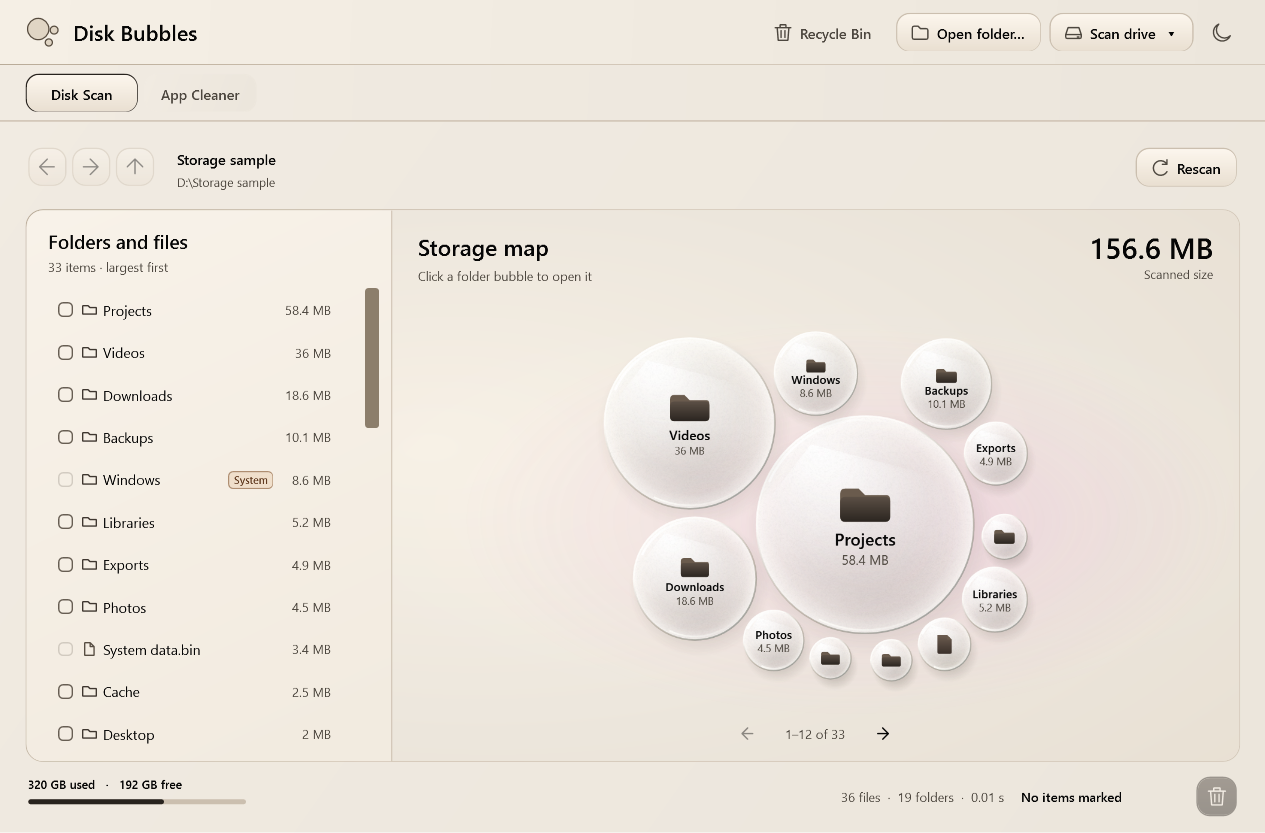
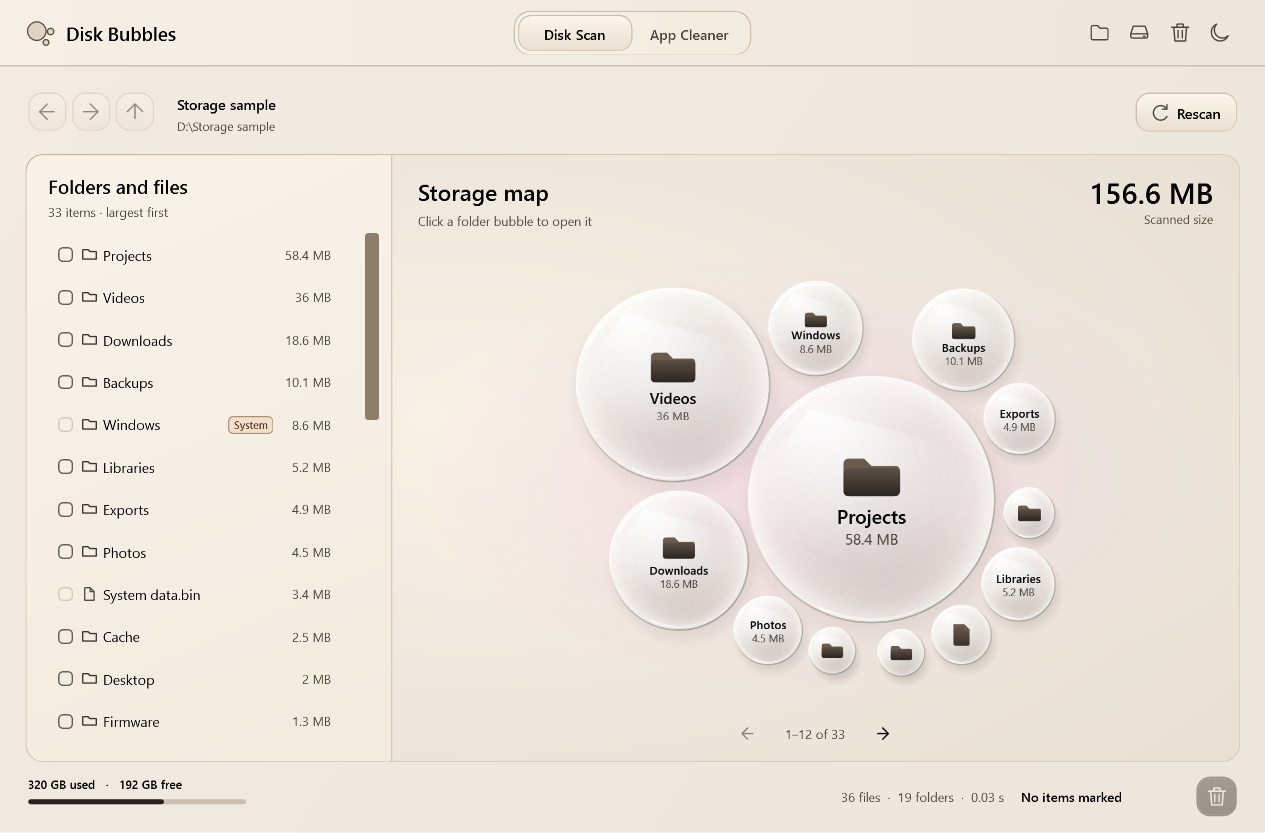
fix: center the start screen and unify the toolbar

diff --git a/src/DiskBubbles/Dark.xaml b/src/DiskBubbles/Dark.xaml
@@ -39,11 +39,6 @@
     <GradientStop Offset="0.57" Color="#040A18" />
     <GradientStop Offset="1" Color="#000412" />
   </RadialGradientBrush>
-  <RadialGradientBrush x:Key="Hero" Center="0.71,0.49" GradientOrigin="0.71,0.43" RadiusX="0.77" RadiusY="1.01">
-    <GradientStop Offset="0" Color="#142436" />
-    <GradientStop Offset="0.55" Color="#080F1E" />
-    <GradientStop Offset="1" Color="#000412" />
-  </RadialGradientBrush>
 
   <SolidColorBrush x:Key="TooltipFill" Color="#172231" />
   <SolidColorBrush x:Key="TooltipEdge" Color="#4A5C70" />

diff --git a/src/DiskBubbles/Light.xaml b/src/DiskBubbles/Light.xaml
@@ -39,11 +39,6 @@
     <GradientStop Offset="0.57" Color="#ECE6DC" />
     <GradientStop Offset="1" Color="#E8DFD2" />
   </RadialGradientBrush>
-  <RadialGradientBrush x:Key="Hero" Center="0.71,0.49" GradientOrigin="0.71,0.43" RadiusX="0.77" RadiusY="1.01">
-    <GradientStop Offset="0" Color="#F8F2E8" />
-    <GradientStop Offset="0.55" Color="#EFE8DD" />
-    <GradientStop Offset="1" Color="#E5DBCD" />
-  </RadialGradientBrush>
 
   <SolidColorBrush x:Key="TooltipFill" Color="#FCF7EE" />
   <SolidColorBrush x:Key="TooltipEdge" Color="#A69A89" />

diff --git a/src/DiskBubbles/MainWindow.Layout.cs b/src/DiskBubbles/MainWindow.Layout.cs
@@ -2,6 +2,7 @@ using System;
 using System.Windows;
 using System.Windows.Automation;
 using System.Windows.Controls;
+using System.Windows.Controls.Primitives;
 using System.Windows.Data;
 using System.Windows.Media;
 using System.Windows.Shapes;
@@ -13,44 +14,57 @@ namespace DiskBubbles
     {
         private Border BuildHeader()
         {
-            var header = new DockPanel { LastChildFill = true };
-            var actions = new StackPanel { Orientation = Orientation.Horizontal, VerticalAlignment = VerticalAlignment.Center };
-            _recycleBin.Style = (Style)FindResource("QuietButton");
-            _recycleBin.Content = UiVisuals.WithIcon("Recycle Bin", UiVisuals.Bin, "Muted");
-            AutomationProperties.SetName(_recycleBin, "Open Recycle Bin");
-            _recycleBin.Margin = new Thickness(0, 0, 8, 0);
-            actions.Children.Add(_recycleBin);
-            _folder.Content = UiVisuals.WithIcon("Open folder…", UiVisuals.Folder, "Muted");
-            AutomationProperties.SetName(_folder, "Open folder to scan");
-            _folder.Margin = new Thickness(0, 0, 8, 0);
-            _drive.Content = UiVisuals.WithIcon("Scan drive  ▾", UiVisuals.Drive, "Muted");
-            AutomationProperties.SetName(_drive, "Choose a drive to scan");
-            actions.Children.Add(_folder);
-            actions.Children.Add(_drive);
-            _appearance.Margin = new Thickness(8, 0, 0, 0);
-            _appearance.Style = (Style)FindResource("QuietButton");
+            var header = new Grid();
+            header.ColumnDefinitions.Add(new ColumnDefinition());
+            header.ColumnDefinitions.Add(new ColumnDefinition { Width = GridLength.Auto });
+            header.ColumnDefinitions.Add(new ColumnDefinition());
+
+            var brand = new StackPanel { Orientation = Orientation.Horizontal, VerticalAlignment = VerticalAlignment.Center };
+            brand.Children.Add(Mark(29));
+            var title = Label("Disk Bubbles", 18, "Ink", FontWeights.SemiBold);
+            title.Margin = new Thickness(9, 0, 0, 0);
+            title.VerticalAlignment = VerticalAlignment.Center;
+            brand.Children.Add(title);
+            header.Children.Add(brand);
+
+            var modes = BuildModeControl();
+            Grid.SetColumn(modes, 1);
+            header.Children.Add(modes);
+
+            var actions = new StackPanel { Orientation = Orientation.Horizontal, HorizontalAlignment = HorizontalAlignment.Right,
+                VerticalAlignment = VerticalAlignment.Center };
+            var quiet = (Style)FindResource("QuietButton");
+            foreach (var button in new[] { _folder, _drive, _recycleBin, _appearance })
+            {
+                button.Style = quiet;
+                button.Width = 36;
+                button.Padding = new Thickness(7);
+                button.Margin = new Thickness(1, 0, 1, 0);
+                actions.Children.Add(button);
+            }
+            SetToolbarIcon(_folder, UiVisuals.Folder, "Choose a folder to scan");
+            SetToolbarIcon(_drive, UiVisuals.Drive, "Choose a drive to scan");
+            SetToolbarIcon(_recycleBin, UiVisuals.Bin, "Open Recycle Bin");
             UpdateAppearanceButton();
             _appearance.Click += (sender, args) =>
             {
                 ChangeAppearance(!Appearance.IsLight);
                 Appearance.SavePreference();
             };
-            actions.Children.Add(_appearance);
-            DockPanel.SetDock(actions, Dock.Right);
+            Grid.SetColumn(actions, 2);
             header.Children.Add(actions);
-
-            var brand = new StackPanel { Orientation = Orientation.Horizontal, VerticalAlignment = VerticalAlignment.Center };
-            brand.Children.Add(Mark(33));
-            var title = Label("Disk Bubbles", 20, "Ink", FontWeights.SemiBold);
-            title.Margin = new Thickness(12, 0, 0, 0);
-            title.VerticalAlignment = VerticalAlignment.Center;
-            brand.Children.Add(title);
-            header.Children.Add(brand);
             return UiVisuals.Surface(new Border
             {
                 BorderThickness = new Thickness(0, 0, 0, 1),
-                Padding = new Thickness(24, 12, 24, 12), Child = header,
-            }, "Header", "GlassEdge");
+                Padding = new Thickness(24, 10, 24, 10), Child = header,
+            }, "Header", "Line");
+        }
+
+        private static void SetToolbarIcon(Button button, string icon, string label)
+        {
+            button.Content = UiVisuals.Icon(icon, "Muted", 17);
+            button.ToolTip = label;
+            AutomationProperties.SetName(button, label);
         }
 
         private void ChangeAppearance(bool light)
@@ -63,14 +77,15 @@ namespace DiskBubbles
                 illustration.InvalidateVisual();
         }
 
-        private Border BuildModeBar()
+        private Border BuildModeControl()
         {
-            var modes = new StackPanel { Orientation = Orientation.Horizontal };
+            var modes = new UniformGrid { Rows = 1, Columns = 2 };
             foreach (Button button in new[] { _diskMode, _appsMode })
             {
                 button.Style = (Style)FindResource("QuietButton");
-                button.MinWidth = 106;
-                button.Margin = new Thickness(0, 0, 6, 0);
+                button.Width = 108;
+                button.MinHeight = 34;
+                button.Padding = new Thickness(10, 5, 10, 5);
                 modes.Children.Add(button);
             }
             _diskMode.Click += (sender, args) => ShowPage(_scan != null ? _scanning : _result == null ? _landing : _browser);
@@ -79,14 +94,22 @@ namespace DiskBubbles
                 ShowPage(_appCleaner);
                 await _appCleaner.OpenAsync();
             };
-            return UiVisuals.Surface(new Border { Child = modes, Padding = new Thickness(24, 8, 24, 8),
-                BorderThickness = new Thickness(0, 0, 0, 1) }, "Workspace", "Line");
+            return UiVisuals.Surface(new Border { Child = modes, Padding = new Thickness(3), CornerRadius = new CornerRadius(15),
+                BorderThickness = new Thickness(1), VerticalAlignment = VerticalAlignment.Center }, "Panel", "Line");
         }
 
         private static void SetActiveMode(Button button, bool selected)
         {
-            button.SetResourceReference(Control.BackgroundProperty, selected ? "Raised" : "Workspace");
-            button.SetResourceReference(Control.BorderBrushProperty, selected ? "Accent" : "Workspace");
+            if (selected)
+            {
+                button.SetResourceReference(Control.BackgroundProperty, "Raised");
+                button.SetResourceReference(Control.BorderBrushProperty, "Line");
+            }
+            else
+            {
+                button.ClearValue(Control.BackgroundProperty);
+                button.ClearValue(Control.BorderBrushProperty);
+            }
             button.SetResourceReference(Control.ForegroundProperty, selected ? "Ink" : "Muted");
             AutomationProperties.SetItemStatus(button, selected ? "Current mode" : "");
         }
@@ -293,34 +316,24 @@ namespace DiskBubbles
         private void BuildLanding()
         {
             var body = new StackPanel();
-            var heading = Label("See where your\nspace went.", 47, "Ink", FontWeights.SemiBold);
-            heading.TextTrimming = TextTrimming.None;
-            heading.TextWrapping = TextWrapping.Wrap;
-            heading.LineHeight = 53;
-            heading.LineStackingStrategy = LineStackingStrategy.BlockLineHeight;
-            SizeChanged += (sender, args) =>
-            {
-                bool compact = ActualWidth < 900;
-                heading.FontSize = compact ? 36 : 47;
-                heading.LineHeight = compact ? 43 : 53;
-            };
+            var heading = Label("See where your space went.", 38, "Ink", FontWeights.SemiBold);
+            heading.TextAlignment = TextAlignment.Center;
             body.Children.Add(heading);
-            var hint = Label("Scan a drive or folder. Open the largest items directly from the map.", 16, "Muted");
-            hint.Margin = new Thickness(0, 20, 0, 0);
+            var hint = Label("Scan a drive or folder to see what’s taking up space.", 15, "Muted");
+            hint.Margin = new Thickness(0, 9, 0, 0);
             hint.TextWrapping = TextWrapping.Wrap;
-            hint.TextTrimming = TextTrimming.None;
-            hint.MaxWidth = 322;
-            hint.HorizontalAlignment = HorizontalAlignment.Left;
+            hint.TextAlignment = TextAlignment.Center;
             body.Children.Add(hint);
             string systemDrive = IOPath.GetPathRoot(Environment.SystemDirectory);
             var start = new Button { Content = UiVisuals.WithIcon("Scan " + systemDrive.TrimEnd('\\'), UiVisuals.Drive, "AccentInk"),
-                MinHeight = 44, Margin = new Thickness(0, 0, 8, 0) };
+                MinHeight = 42, Margin = new Thickness(0, 0, 4, 0) };
             AutomationProperties.SetName(start, "Scan " + systemDrive.TrimEnd('\\'));
             UiVisuals.Emphasize(start);
             start.Click += async (sender, args) => await ScanAsync(systemDrive);
-            var choose = new Button { Content = "Choose folder…", MinHeight = 44 };
+            var choose = new Button { Content = "Choose folder…", MinHeight = 42, Margin = new Thickness(4, 0, 0, 0) };
             choose.Click += async (sender, args) => await ChooseFolderAsync();
-            var actions = new WrapPanel { Margin = new Thickness(0, 26, 0, 0) };
+            var actions = new UniformGrid { Rows = 1, Columns = 2, Width = 296,
+                HorizontalAlignment = HorizontalAlignment.Center, Margin = new Thickness(0, 22, 0, 0) };
             actions.Children.Add(start);
             actions.Children.Add(choose);
             body.Children.Add(actions);
@@ -330,22 +343,25 @@ namespace DiskBubbles
         private void BuildScanning()
         {
             var body = new StackPanel();
-            var heading = Label("Scanning storage", 37, "Ink", FontWeights.SemiBold);
+            var heading = Label("Scanning storage", 34, "Ink", FontWeights.SemiBold);
+            heading.TextAlignment = TextAlignment.Center;
             body.Children.Add(heading);
             FormatLabel(_scanCounts, 13, "Muted");
+            _scanCounts.TextAlignment = TextAlignment.Center;
             _scanCounts.Margin = new Thickness(0, 10, 0, 10);
             FormatLabel(_scanPath, 13, "Muted");
+            _scanPath.TextAlignment = TextAlignment.Center;
             _scanPath.Margin = new Thickness(0, 0, 0, 18);
             _scanPath.SetBinding(ToolTipProperty, new Binding("Text") { Source = _scanPath });
             body.Children.Add(_scanCounts);
             body.Children.Add(_scanPath);
             _spinner.SetResourceReference(Control.ForegroundProperty, "Accent");
             _spinner.SetResourceReference(Control.BackgroundProperty, "Line");
-            _spinner.HorizontalAlignment = HorizontalAlignment.Left;
+            _spinner.HorizontalAlignment = HorizontalAlignment.Center;
             _spinner.Template = (ControlTemplate)FindResource("ScanMeter");
             AutomationProperties.SetName(_spinner, "Scan in progress");
             body.Children.Add(_spinner);
-            _cancel.HorizontalAlignment = HorizontalAlignment.Left;
+            _cancel.HorizontalAlignment = HorizontalAlignment.Center;
             _cancel.Margin = new Thickness(0, 24, 0, 0);
             _cancel.Click += (sender, args) =>
             {
@@ -359,17 +375,14 @@ namespace DiskBubbles
 
         private void BuildIntro(Grid page, StackPanel body)
         {
-            var layout = new Grid { ClipToBounds = true };
-            layout.ColumnDefinitions.Add(new ColumnDefinition { Width = new GridLength(1, GridUnitType.Star), MinWidth = 338 });
-            layout.ColumnDefinitions.Add(new ColumnDefinition { Width = new GridLength(1.12, GridUnitType.Star) });
-            body.VerticalAlignment = VerticalAlignment.Center;
-            body.Margin = new Thickness(42, 20, 12, 20);
-            layout.Children.Add(body);
-            var art = new StorageIllustration { IsHitTestVisible = false, Margin = new Thickness(2, 18, 23, 18) };
+            var intro = new StackPanel { HorizontalAlignment = HorizontalAlignment.Center, VerticalAlignment = VerticalAlignment.Center,
+                MaxWidth = 560, Margin = new Thickness(16, 12, 16, 20) };
+            var art = new StorageIllustration { IsHitTestVisible = false, Width = 280, Height = 174,
+                HorizontalAlignment = HorizontalAlignment.Center, Margin = new Thickness(0, 0, 0, 14) };
             _illustrations.Add(art);
-            Grid.SetColumn(art, 1);
-            layout.Children.Add(art);
-            page.Children.Add(Card(layout, "Hero"));
+            intro.Children.Add(art);
+            intro.Children.Add(body);
+            page.Children.Add(intro);
         }
 
         private TextBlock Label(string text, double size, string color, FontWeight? weight = null)

diff --git a/src/DiskBubbles/UiVisuals.cs b/src/DiskBubbles/UiVisuals.cs
@@ -30,14 +30,14 @@ namespace DiskBubbles
                 return;
 
             Brush blush = Appearance.IsLight ? (_lightBlush ??= BlushBrush(38)) : (_darkBlush ??= BlushBrush(49));
-            drawing.DrawEllipse(blush, null, new Point(bounds.X + bounds.Width * 0.54, bounds.Y + bounds.Height * 0.53),
+            drawing.DrawEllipse(blush, null, new Point(bounds.X + bounds.Width * 0.5, bounds.Y + bounds.Height * 0.5),
                 bounds.Width * 0.46, bounds.Height * 0.47);
         }
 
         private static Brush BlushBrush(byte strength)
         {
             Color tint = ((SolidColorBrush)Application.Current.FindResource("Atmosphere")).Color;
-            var brush = new RadialGradientBrush { RadiusX = 0.5, RadiusY = 0.5, GradientOrigin = new Point(0.60, 0.51) };
+            var brush = new RadialGradientBrush { RadiusX = 0.5, RadiusY = 0.5 };
             brush.GradientStops.Add(new GradientStop(Color.FromArgb(strength, tint.R, tint.G, tint.B), 0));
             brush.GradientStops.Add(new GradientStop(Color.FromArgb((byte)(strength / 2), tint.R, tint.G, tint.B), 0.46));
             brush.GradientStops.Add(new GradientStop(Color.FromArgb(0, tint.R, tint.G, tint.B), 1));
@@ -319,25 +319,26 @@ namespace DiskBubbles
 
         protected override void OnRender(DrawingContext drawing)
         {
-            double scale = Math.Min(ActualWidth / 440, ActualHeight / 376);
+            const double width = 280;
+            const double height = 174;
+            var center = new Point(width / 2, height / 2);
+            double scale = Math.Min(ActualWidth / width, ActualHeight / height);
             if (scale <= 0)
                 return;
 
-            drawing.PushTransform(new TranslateTransform((ActualWidth - 440 * scale) / 2, (ActualHeight - 376 * scale) / 2));
+            drawing.PushTransform(new TranslateTransform((ActualWidth - width * scale) / 2, (ActualHeight - height * scale) / 2));
             drawing.PushTransform(new ScaleTransform(scale, scale));
 
-            UiVisuals.DrawBlush(drawing, new Rect(6, 9, 426, 354));
+            UiVisuals.DrawBlush(drawing, new Rect(0, 0, width, height));
             Color lens = Appearance.IsLight ? Color.FromRgb(189, 174, 174) : Color.FromRgb(159, 186, 201);
             Color smallLens = Appearance.IsLight ? Color.FromRgb(184, 176, 165) : Color.FromRgb(162, 175, 191);
-            GlassOrb.Draw(drawing, new Point(221, 189), 91, lens);
-            GlassOrb.Draw(drawing, new Point(104, 111), 42, smallLens);
-            GlassOrb.Draw(drawing, new Point(349, 148), 36, lens);
-            GlassOrb.Draw(drawing, new Point(316, 284), 34, smallLens);
-            GlassOrb.Draw(drawing, new Point(113, 260), 31, lens);
-            GlassOrb.Draw(drawing, new Point(205, 79), 16, smallLens);
-            GlassOrb.Draw(drawing, new Point(219, 307), 18, smallLens);
-            drawing.PushTransform(new TranslateTransform(194, 162));
-            drawing.PushTransform(new ScaleTransform(2.25, 2.25));
+            GlassOrb.Draw(drawing, center, 52, lens);
+            GlassOrb.Draw(drawing, center + new Vector(-73, -23), 19, smallLens);
+            GlassOrb.Draw(drawing, center + new Vector(73, -23), 19, smallLens);
+            GlassOrb.Draw(drawing, center + new Vector(-67, 26), 14, smallLens);
+            GlassOrb.Draw(drawing, center + new Vector(67, 26), 14, smallLens);
+            drawing.PushTransform(new TranslateTransform(center.X - 20, center.Y - 19.2));
+            drawing.PushTransform(new ScaleTransform(1.6, 1.6));
             var ink = (Brush)FindResource("Ink");
             drawing.DrawGeometry(null, new Pen(ink, 0.75) { LineJoin = PenLineJoin.Round }, FolderGlyph);
             drawing.Pop();

diff --git a/src/DiskBubbles/AppCleanerPage.cs b/src/DiskBubbles/AppCleanerPage.cs
@@ -94,11 +94,9 @@ namespace DiskBubbles
             actions.Children.Add(_refresh);
             DockPanel.SetDock(actions, Dock.Right);
             top.Children.Add(actions);
-            var heading = new StackPanel();
-            heading.Children.Add(Label("App Cleaner", 25, "Ink", true));
-            _status.Margin = new Thickness(0, 3, 0, 0);
-            heading.Children.Add(_status);
-            top.Children.Add(heading);
+            _status.VerticalAlignment = VerticalAlignment.Center;
+            _status.Margin = new Thickness(0, 0, 12, 0);
+            top.Children.Add(_status);
             Children.Add(top);
 
             var columns = new Grid();
@@ -144,11 +142,12 @@ namespace DiskBubbles
             _openFolder.Margin = new Thickness(0, 14, 0, 0);
             _openFolder.HorizontalAlignment = HorizontalAlignment.Left;
             details.Children.Add(_openFolder);
-            var side = UiVisuals.Surface(new Border
+            var side = new Border
             {
-                BorderThickness = new Thickness(1, 0, 0, 0), CornerRadius = new CornerRadius(0, 15, 15, 0),
+                BorderThickness = new Thickness(1, 0, 0, 0),
                 Child = new ScrollViewer { Content = details, HorizontalScrollBarVisibility = ScrollBarVisibility.Disabled },
-            }, "Chart", "Line");
+            };
+            side.SetResourceReference(Border.BorderBrushProperty, "Line");
             SetColumn(side, 1);
             columns.Children.Add(side);
             var card = UiVisuals.Surface(new Border { Child = columns, BorderThickness = new Thickness(1), CornerRadius = new CornerRadius(15) }, "Panel", "GlassEdge");

diff --git a/src/DiskBubbles/App.cs b/src/DiskBubbles/App.cs
@@ -7,9 +7,9 @@ using System.Windows;
 [assembly: AssemblyTitle("Disk Bubbles")]
 [assembly: AssemblyProduct("Disk Bubbles")]
 [assembly: AssemblyDescription("Interactive disk usage map for Windows")]
-[assembly: AssemblyVersion("10.3.0.0")]
-[assembly: AssemblyFileVersion("10.3.0.0")]
-[assembly: AssemblyInformationalVersion("10.3.0")]
+[assembly: AssemblyVersion("10.3.1.0")]
+[assembly: AssemblyFileVersion("10.3.1.0")]
+[assembly: AssemblyInformationalVersion("10.3.1")]
 [assembly: TargetFramework(".NETFramework,Version=v4.8")]
 
 namespace DiskBubbles

diff --git a/src/DiskBubbles/MainWindow.cs b/src/DiskBubbles/MainWindow.cs
@@ -107,9 +107,6 @@ namespace DiskBubbles
             var header = BuildHeader();
             DockPanel.SetDock(header, Dock.Top);
             shell.Children.Add(header);
-            var modes = BuildModeBar();
-            DockPanel.SetDock(modes, Dock.Top);
-            shell.Children.Add(modes);
             _surface.Margin = new Thickness(24, 20, 24, 15);
             shell.Children.Add(_surface);
             var viewport = new Grid();

diff --git a/CHANGELOG.md b/CHANGELOG.md
@@ -1,5 +1,9 @@
 # Changelog
 
+## 10.3.1
+
+- Center the start and scan screens, bring both modes into one toolbar, and give App Cleaner one shared surface for the list and details.
+
 ## 10.3.0
 
 - Open App Cleaner separately from Disk Scan. Compare measured install folders, filter apps, and review uninstall actions.
